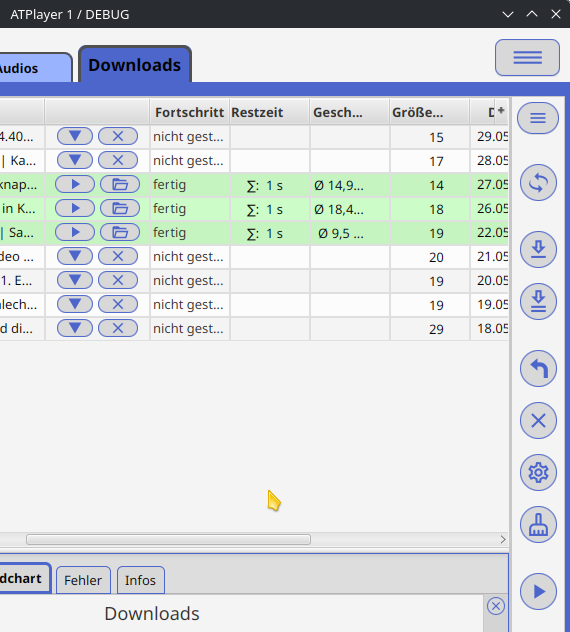
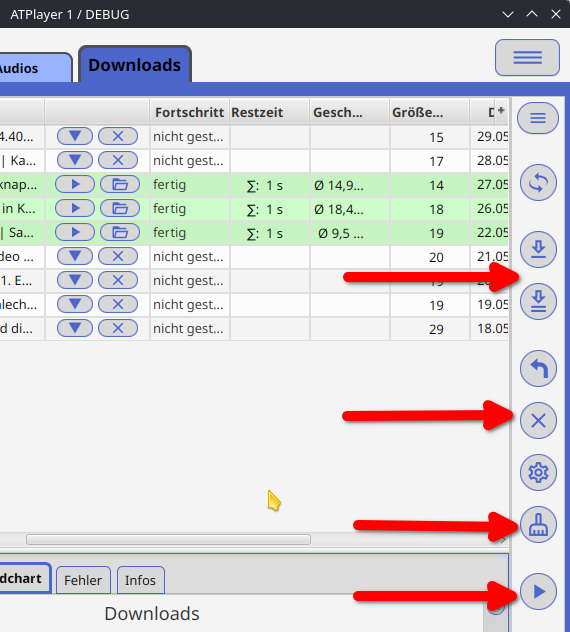
update

diff --git a/src/main/java/de/p2tools/atplayer/tips/TipListInfos.java b/src/main/java/de/p2tools/atplayer/tips/TipListInfos.java
@@ -38,11 +38,6 @@ public class TipListInfos {
                 "von Programmeinstellungen " +
                 "erreichbar." +
                 "\n\n" +
-                "Zuerst sollten nur die " +
-                "Einstellungen zum Abspielen " +
-                "und Aufzeichnen zurückgesetzt " +
-                "werden." +
-                "\n\n" +
                 "Wenn gar nichts mehr geht, " +
                 "kann das Programm komplett " +
                 "zurückgesetzt werden." +

diff --git a/src/main/java/de/p2tools/atplayer/gui/configdialog/paneblacklist/PanelFilterGrid.java b/src/main/java/de/p2tools/atplayer/gui/configdialog/paneblacklist/PanelFilterGrid.java
@@ -155,7 +155,7 @@ public class PanelFilterGrid {
         VBox vAll = new VBox(SPACE_VBOX);
         vAll.getChildren().addAll(vb1, vb2, vb3);
 
-        tableView.setStyle("-fx-border-width: 1px; -fx-border-color: -text-color-blue;");
+        tableView.setStyle("-fx-border-width: 1px; -fx-border-color:  -pGuiColor;");
 
         splitPane.getItems().addAll(tableView, vAll);
 //        splitPane.getItems().get(0).autosize();

diff --git a/src/main/java/de/p2tools/atplayer/tips/TipListAudios.java b/src/main/java/de/p2tools/atplayer/tips/TipListAudios.java
@@ -46,7 +46,7 @@ public class TipListAudios {
         TipData pToolTip = new TipData(text, image);
         pToolTipList.add(pToolTip);
 
-        text = "Hier kann das ausgewählte " +
+        text = "Hier wird das ausgewählte " +
                 "Audio gestartet.\n" +
                 "Darunter werden alle in der Tabelle ausgewählte Audios " +
                 "als Download angelegt und dann gespeichert." +
